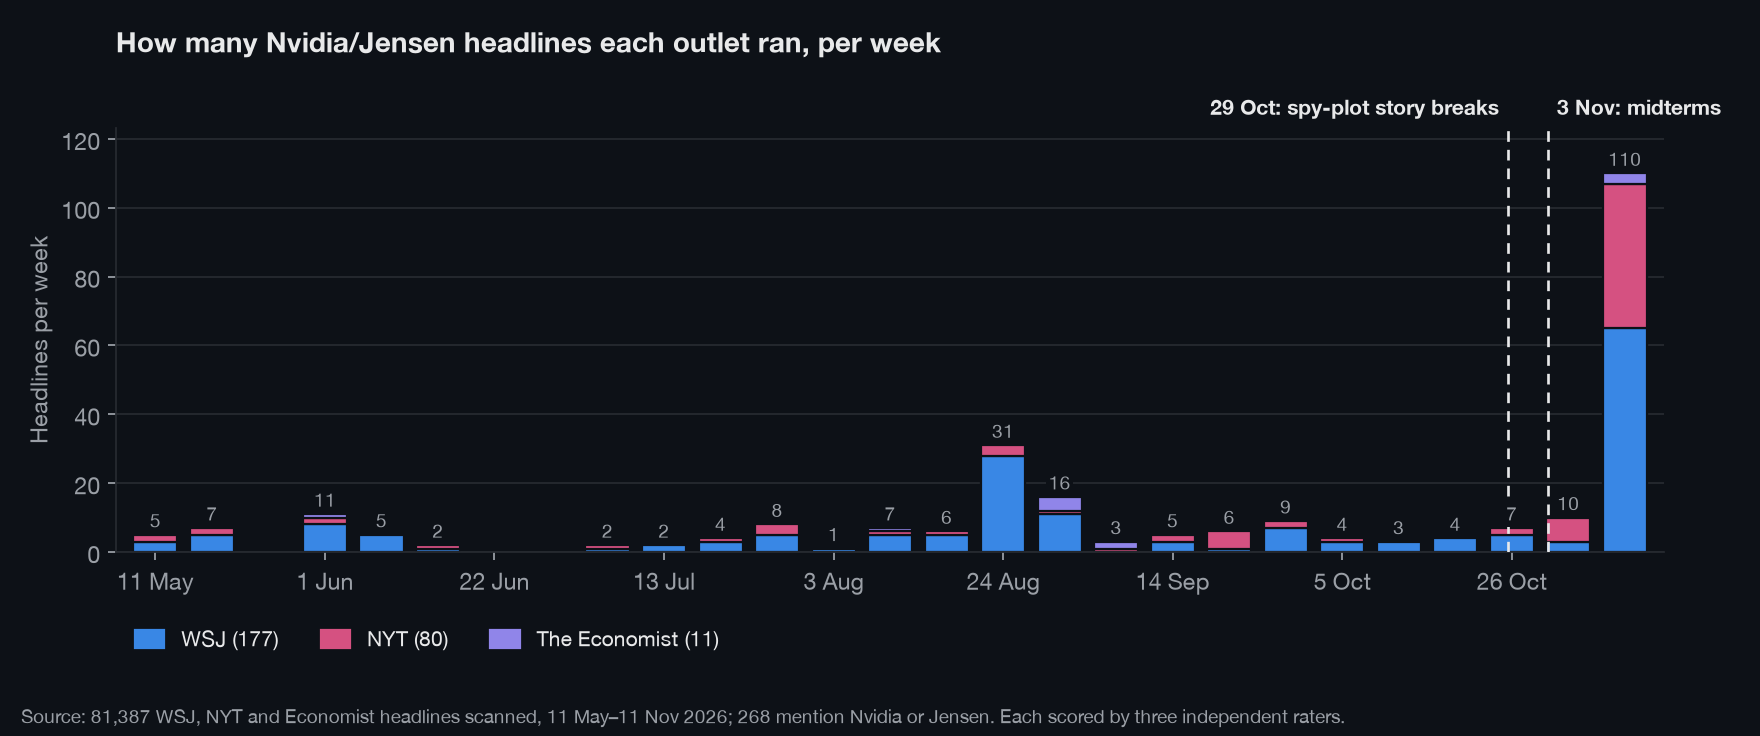
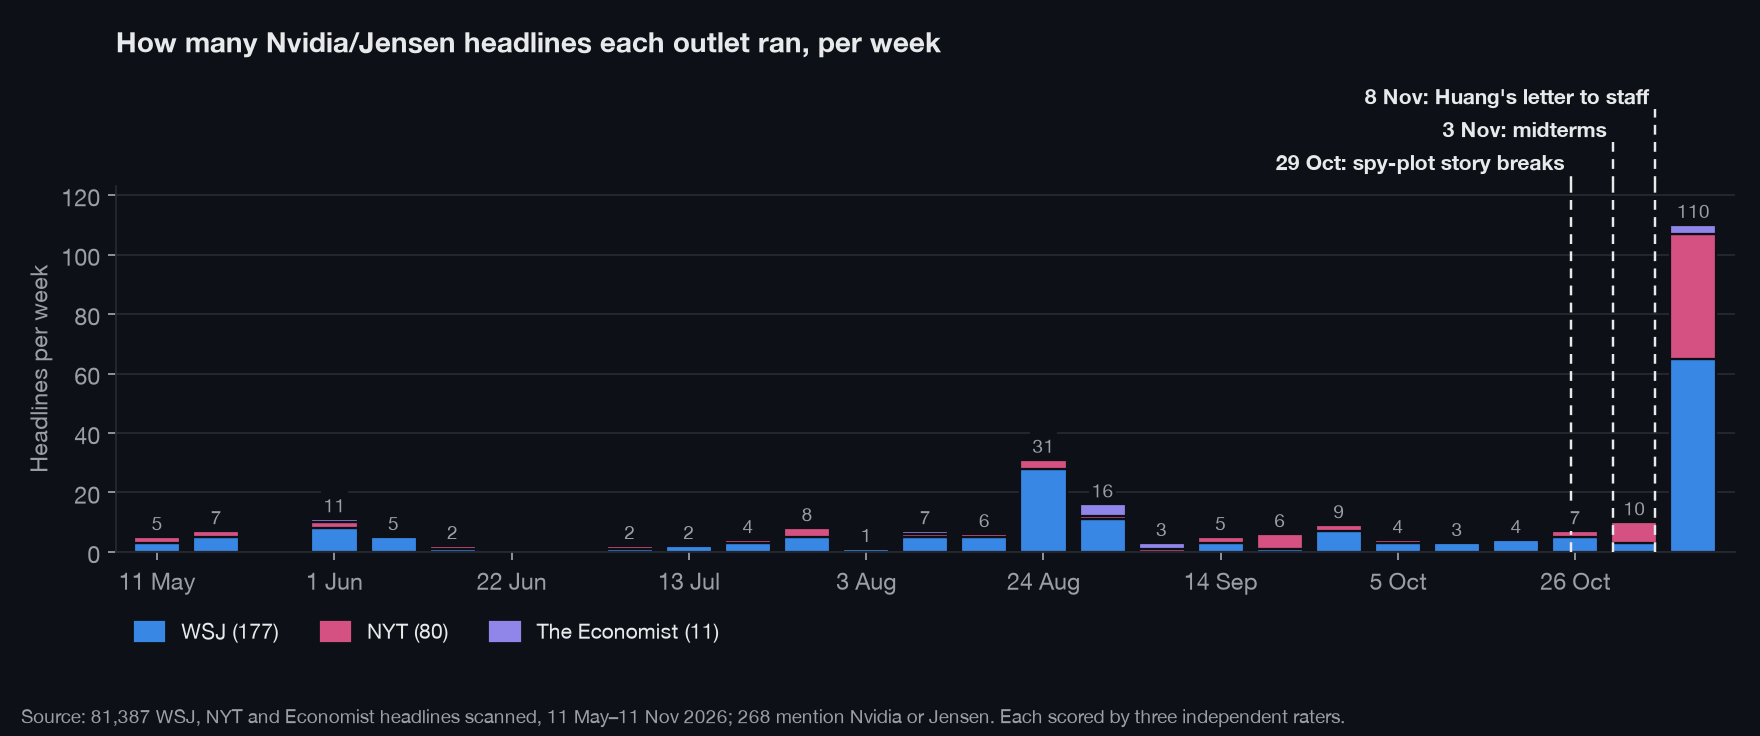
One-image summary and three event markers on every timeline
charts/summary.png combines the weekly ethics share, volume by outlet,
monthly tone by outlet and the normal-week-vs-surge comparison. All
timeline charts now mark 29 Oct (spy-plot story breaks), 3 Nov
(midterms) and 8 Nov (Huang's letter to staff).

diff --git a/scripts/analyze.py b/scripts/analyze.py
@@ -27,7 +27,12 @@ WINDOW_START = date(2026, 5, 11)
 WINDOW_END = date(2026, 11, 11)
 STORY_BREAK = date(2026, 10, 29)  # NYT: Huang seen as target of Chinese spy plot
 MIDTERMS = date(2026, 11, 3)
-ADMISSION = date(2026, 11, 8)
+ADMISSION = date(2026, 11, 8)  # Huang's letter to Nvidia staff acknowledging the affair
+EVENTS = [
+    (STORY_BREAK, "29 Oct: spy-plot story breaks"),
+    (MIDTERMS, "3 Nov: midterms"),
+    (ADMISSION, "8 Nov: Huang's letter to staff"),
+]
 OUTLETS = ["WSJ", "NYT", "The Economist"]
 
 # Two themes. Light sits on GitHub's white page, dark on GitHub's dark page (#0d1117).
@@ -178,6 +183,18 @@ def marker(ax, x, label, y, ha):
                 xytext=(4 if ha == "left" else -4, 0), textcoords="offset points")
 
 
+def events(ax, to_x, base=1.03, step=0.09, fontsize=9.5):
+    """Mark the three key dates. Later events get higher labels, each right-aligned to its line."""
+    from matplotlib.transforms import blended_transform_factory
+    tr = blended_transform_factory(ax.transData, ax.transAxes)
+    for k, (d, label) in enumerate(EVENTS):
+        x, y = to_x(d), base + step * k
+        ax.axvline(x, color=T["ink"], lw=1.1, ls=(0, (4, 3)), zorder=3)
+        ax.plot([x, x], [1, y], transform=tr, clip_on=False, color=T["ink"], lw=1.1, ls=(0, (4, 3)))
+        ax.annotate(label, (x, y), xycoords=tr, ha="right", va="bottom", xytext=(-3, 0),
+                    textcoords="offset points", fontsize=fontsize, fontweight="bold", color=T["ink"])
+
+
 def legend(ax, labels, colours, ncol=4, kind="box"):
     if kind == "box":
         handles = [plt.Rectangle((0, 0), 1, 1, color=c) for c in colours]
@@ -242,9 +259,8 @@ def weekly_chart(rows, path):
     ax.set_yticks([0, 0.25, 0.5, 0.75, 1.0], ["0%", "25%", "50%", "75%", "100%"])
     grid_y(ax)
     week_ticks(ax)
-    marker(ax, week_x(STORY_BREAK), "29 Oct: spy-plot story breaks", 1.09, "right")
-    marker(ax, week_x(MIDTERMS), "3 Nov: midterms", 1.09, "left")
-    title(ax, "Share of Nvidia/Jensen headlines by ethics tone, per week (count above bar)", 40)
+    events(ax, week_x, base=1.08)
+    title(ax, "Share of Nvidia/Jensen headlines by ethics tone, per week (count above bar)", 66)
     legend(ax, CLASS_NAMES, T["tone"])
     finish(fig, path)
 
@@ -265,12 +281,9 @@ def daily_chart(rows, path):
     grid_y(ax)
     ax.set_xticks(range(0, 17, 2), [days[i].strftime("%-d %b") for i in range(0, 17, 2)])
     ax.set_xlim(-0.7, 16.7)
-    marker(ax, (STORY_BREAK - start).days, "29 Oct: spy-plot story breaks", 1.02, "left")
-    marker(ax, (MIDTERMS - start).days, "3 Nov: midterms", 1.10, "left")
-    ax.annotate("Huang admits affair,\nboard opens probe (8–9 Nov)", ((ADMISSION - start).days + 0.45, top * 0.92),
-                ha="right", va="top", fontsize=9.5, color=T["muted"])
+    events(ax, lambda d: (d - start).days)
     ax.set_ylabel("Headlines per day")
-    title(ax, "The 17 days around the election", 34)
+    title(ax, "The 17 days around the election", 60)
     legend(ax, CLASS_NAMES, T["tone"])
     finish(fig, path)
 
@@ -319,10 +332,9 @@ def volume_chart(rows, path):
     ax.set_ylim(0, top * 1.12)
     grid_y(ax)
     week_ticks(ax)
-    marker(ax, week_x(STORY_BREAK), "29 Oct: spy-plot story breaks", 1.02, "right")
-    marker(ax, week_x(MIDTERMS), "3 Nov: midterms", 1.02, "left")
+    events(ax, week_x)
     ax.set_ylabel("Headlines per week")
-    title(ax, "How many Nvidia/Jensen headlines each outlet ran, per week", 34)
+    title(ax, "How many Nvidia/Jensen headlines each outlet ran, per week", 60)
     totals = {o: sum(r["outlet"] == o for r in rows) for o in OUTLETS}
     legend(ax, [f"{o} ({totals[o]})" for o in OUTLETS], [T["outlet"][o] for o in OUTLETS], ncol=3)
     finish(fig, path)
@@ -426,6 +438,153 @@ def og_image(rows, summary, path):
     plt.close(fig)
 
 
+# ---------- one-image summary (portrait, phone-friendly) ----------
+
+def content_kind(url):
+    import re
+    if "/livecoverage/" in url:
+        return "Live-blog cards"
+    if re.search(r"/podcasts?/|/video/|/audio/", url):
+        return "Podcasts & video"
+    if re.search(r"/newsletters?/|/the-morning|/briefing|/the-evening", url):
+        return "Newsletters"
+    return "Articles"
+
+
+def poster(rows, summary, path):
+    import matplotlib.gridspec as gridspec
+    corpus = json.loads((ROOT / "data" / "corpus.json").read_text(encoding="utf-8"))
+    fig = plt.figure(figsize=(9, 15.5), dpi=150)
+    gs = gridspec.GridSpec(5, 1, figure=fig, height_ratios=[1.45, 1.15, 1.25, 1.3, 1.15],
+                           hspace=0.62, left=0.1, right=0.9, top=0.975, bottom=0.065)
+
+    # 1. header
+    ax = fig.add_subplot(gs[0]); ax.axis("off")
+    before = summary["periods"]["before_story_2026-05-11_to_10-28"]["ethics_negative_share"]
+    after = summary["periods"]["election_and_after_2026-11-03_to_11-11"]["ethics_negative_share"]
+    ax.text(0, 1.0, "NVIDIA HEADLINES · WSJ · NYT · THE ECONOMIST · MAY–NOV 2026", transform=ax.transAxes,
+            fontsize=10.5, fontweight="bold", color=T["muted"], va="top")
+    ax.text(0, 0.87, "How ethics coverage of\nJensen Huang turned", transform=ax.transAxes,
+            fontsize=24, fontweight="bold", color=T["ink"], va="top", linespacing=1.05)
+    ax.text(0, 0.17, f"{before:.0%}", transform=ax.transAxes, fontsize=44, fontweight="bold", color=T["muted"], va="bottom")
+    ax.text(0.2, 0.21, "ethics-negative\nbefore 29 Oct", transform=ax.transAxes, fontsize=11, color=T["muted"], va="bottom")
+    ax.text(0.47, 0.17, f"{after:.0%}", transform=ax.transAxes, fontsize=44, fontweight="bold", color=T["tone"][0], va="bottom")
+    ax.text(0.71, 0.21, "from the 3 Nov\nmidterms onward", transform=ax.transAxes, fontsize=11, color=T["ink"], va="bottom")
+    ax.text(0, 0.06, "The turn began 29 Oct, five days before the vote, when the spy-plot story broke.\n"
+            "The surge came 8–9 Nov, after Huang admitted an affair and the board opened a probe.",
+            transform=ax.transAxes, fontsize=10, color=T["muted"], va="top", linespacing=1.4)
+
+    def panel_title(ax, text):
+        ax.set_title(text, loc="left", fontsize=12.5, fontweight="bold", color=T["ink"], pad=26)
+
+    # 2. weekly ethics-negative share
+    ax = fig.add_subplot(gs[1])
+    for i, w in enumerate(weeks()):
+        g = [r for r in rows if in_week(r, w)]
+        if g:
+            share = sum(r["median_score"] < 0 for r in g) / len(g)
+            ax.bar(i, max(share, 0.012), width=0.74,
+                   color=T["tone"][0] if w + timedelta(days=6) >= STORY_BREAK else T["tone"][2])
+    ax.set_ylim(0, 1)
+    ax.set_yticks([0, 0.5, 1], ["0%", "50%", "100%"])
+    grid_y(ax); week_ticks(ax)
+    events(ax, week_x, base=1.03, step=0.11, fontsize=9)
+    panel_title(ax, "1  Share of headlines that are ethics-negative, per week")
+    ax.title.set_position((0, 1.30))
+
+    # 3. volume by outlet
+    ax = fig.add_subplot(gs[2])
+    top = 0
+    for i, w in enumerate(weeks()):
+        bottom = 0
+        for o in OUTLETS:
+            c = sum(1 for r in rows if r["outlet"] == o and in_week(r, w))
+            if c:
+                ax.bar(i, c, bottom=bottom, width=0.74, color=T["outlet"][o], edgecolor=T["bg"], linewidth=0.8)
+            bottom += c
+        top = max(top, bottom)
+    ax.set_ylim(0, top * 1.1)
+    grid_y(ax); week_ticks(ax)
+    events(ax, week_x, base=1.03, step=0.10, fontsize=9)
+    ax.annotate("110 headlines in the week of 9 Nov.\nBusiest earlier week: 31 (earnings).", (19.2, top * 0.72),
+                fontsize=9.5, color=T["muted"], ha="right", va="center")
+    totals = {o: sum(r["outlet"] == o for r in rows) for o in OUTLETS}
+    ax.legend([plt.Rectangle((0, 0), 1, 1, color=T["outlet"][o]) for o in OUTLETS],
+              [f"{o} ({totals[o]})" for o in OUTLETS], ncol=3, frameon=False, loc="upper left",
+              bbox_to_anchor=(0, 0.98), fontsize=9.5, handlelength=1, handleheight=1)
+    panel_title(ax, "2  Headlines per week, by outlet")
+    ax.title.set_position((0, 1.30))
+
+    # 4. monthly tone by outlet
+    ax = fig.add_subplot(gs[3])
+    months = [(2026, m) for m in range(5, 12)]
+    ax.axhline(0, color=T["grid"], lw=1.2)
+    for k, o in enumerate(OUTLETS):
+        xs, ys, ns, idx = [], [], [], []
+        for i, (y, m) in enumerate(months):
+            g = [r for r in rows if r["outlet"] == o and r["date"].month == m]
+            if g:
+                xs.append(i + (k - 1) * 0.06); ys.append(sum(r["median_score"] for r in g) / len(g))
+                ns.append(len(g)); idx.append(i)
+        for j in range(len(xs) - 1):
+            gap = idx[j + 1] - idx[j] > 1
+            ax.plot(xs[j:j + 2], ys[j:j + 2], color=T["outlet"][o], lw=1.2 if gap else 2,
+                    ls=(0, (3, 3)) if gap else "-", alpha=0.7 if gap else 1)
+        ax.scatter(xs, ys, s=[max(24, min(130, 10 * n)) for n in ns], color=T["outlet"][o],
+                   edgecolor=T["bg"], linewidth=1.5, zorder=3)
+        ax.annotate(f"{o}  {ys[-1]:+.2f}".replace("-", "−"), (xs[-1], ys[-1]), xytext=(9, 0),
+                    textcoords="offset points", va="center", fontsize=9.5, color=T["ink"])
+    ax.set_xticks(range(7), [date(2026, m, 1).strftime("%b") for _, m in months])
+    ax.set_xlim(-0.3, 8.2)
+    ax.set_ylim(-2.15, 0.35)
+    ax.set_yticks([-2, -1, 0], ["−2", "−1", "0"])
+    grid_y(ax)
+    ax.set_ylabel("Mean score (−2 to +2)")
+    ax.text(0, 1.0, "Dot size = headlines that month · dashed = a month with none", transform=ax.transAxes,
+            fontsize=9, color=T["muted"], va="bottom")
+    panel_title(ax, "3  Average ethics tone by outlet, per month (Nov = 1–11 Nov)")
+
+    # 5. normal week vs 9–11 Nov, by format
+    ax = fig.add_subplot(gs[4])
+    kinds = ["Articles", "Live-blog cards", "Podcasts & video", "Newsletters"]
+    kind_col = [T["ink"], T["muted"], T["tone"][2], T["grid"]]
+    pre_weeks = 24
+    labels, ypos = [], []
+    y = 0
+    for o in ["NYT", "WSJ"]:
+        pre = [r for r in rows if r["outlet"] == o and r["date"] < date(2026, 10, 26)]
+        surge = [r for r in rows if r["outlet"] == o and date(2026, 11, 9) <= r["date"] <= date(2026, 11, 11)]
+        for label, g, scale in ((f"{o}: a normal week, May–Oct", pre, pre_weeks), (f"{o}: 9–11 Nov (3 days)", surge, 1)):
+            left = 0.0
+            for kname, kc in zip(kinds, kind_col):
+                v = sum(content_kind(r["url"]) == kname for r in g) / scale
+                if v:
+                    ax.barh(y, v, left=left, height=0.62, color=kc, edgecolor=T["bg"], linewidth=0.8)
+                left += v
+            ax.text(left + 0.8, y, f"{left:.1f}" if scale > 1 else f"{int(left)}", va="center",
+                    fontsize=10, color=T["ink"], fontweight="bold")
+            ax.text(0, y + 0.42, label, fontsize=9.5, color=T["ink"], va="bottom")
+            y -= 1.25
+        y -= 0.35
+    ax.set_yticks([])
+    ax.set_ylim(y + 0.75, 0.95)
+    ax.spines["left"].set_visible(False)
+    ax.xaxis.grid(True, color=T["grid"], lw=0.8); ax.set_axisbelow(True)
+    ax.set_xlim(0, 72)
+    ax.legend([plt.Rectangle((0, 0), 1, 1, color=c) for c in kind_col], kinds, ncol=4, frameon=False,
+              loc="upper left", bbox_to_anchor=(-0.02, 1.16), fontsize=9, handlelength=1, handleheight=1)
+    panel_title(ax, "4  A normal week vs three days: NYT ran more articles on 9–11 Nov (30)\n    than in the previous 5½ months (25)")
+    ax.title.set_position((0, 1.12))
+
+    fig.text(0.1, 0.012,
+             f"Source: {corpus['headlines_listed_total']:,} WSJ, NYT and Economist headlines scanned, 11 May–11 Nov 2026; "
+             f"{len(rows)} mention Nvidia or Jensen,\neach scored by three independent raters. "
+             "github.com/twobitapps/nvidia-headlines-ethics-2026",
+             fontsize=8.5, color=T["muted"], va="bottom", linespacing=1.4)
+    fig.savefig(path)
+    plt.close(fig)
+
+
 # ---------- README headline list ----------
 
 TONE_MARK = {-2: "🟥", -1: "🟧", 0: "⬜", 1: "🟩", 2: "🟩"}
@@ -480,6 +639,8 @@ def main():
     use_theme(CHART_THEME)
     for name, draw in CHART_SET.items():
         draw(rows, summary, CHARTS / f"{name}.png")
+    use_theme(CHART_THEME)
+    poster(rows, summary, CHARTS / "summary.png")
     og_image(rows, summary, ROOT / "og-image.png")
     readme_table(rows)
     p = summary["periods"]

diff --git a/README.md b/README.md
@@ -4,6 +4,10 @@
 
 We scanned **81,387 headlines** published by **The Wall Street Journal**, **The New York Times** and **The Economist** between 11 May and 11 Nov 2026: every headline on 396 daily archive, sitemap and weekly edition pages. **268** of them contain "Nvidia" or "Jensen", and each of those was scored for ethics sentiment. The question was whether coverage of Jensen Huang turned negative after the US midterm elections on 3 Nov 2026.
 
+## At a glance
+
+![Summary: how ethics coverage of Jensen Huang turned](charts/summary.png)
+
 ## Finding
 
 | Period | Headlines | Ethics-negative | Mean score (−2 to +2) |
@@ -116,7 +120,7 @@ All three gave the same score on 243 of 268 headlines and never differed by more
 | `data/summary.json` | Every figure above, computed from the CSV |
 | `data/corpus.json` | Pages read and headlines scanned per outlet |
 | `scripts/analyze.py` | Recomputes `summary.json`, the charts, the preview image and the headline list in this README from the CSV |
-| `charts/` | The three charts above |
+| `charts/` | All charts, including `summary.png`, the one-image overview |
 | `site/index.html` | Interactive chart and full headline list |
 | `analysis/framing-audit.md` | Headline wording audit |
 
